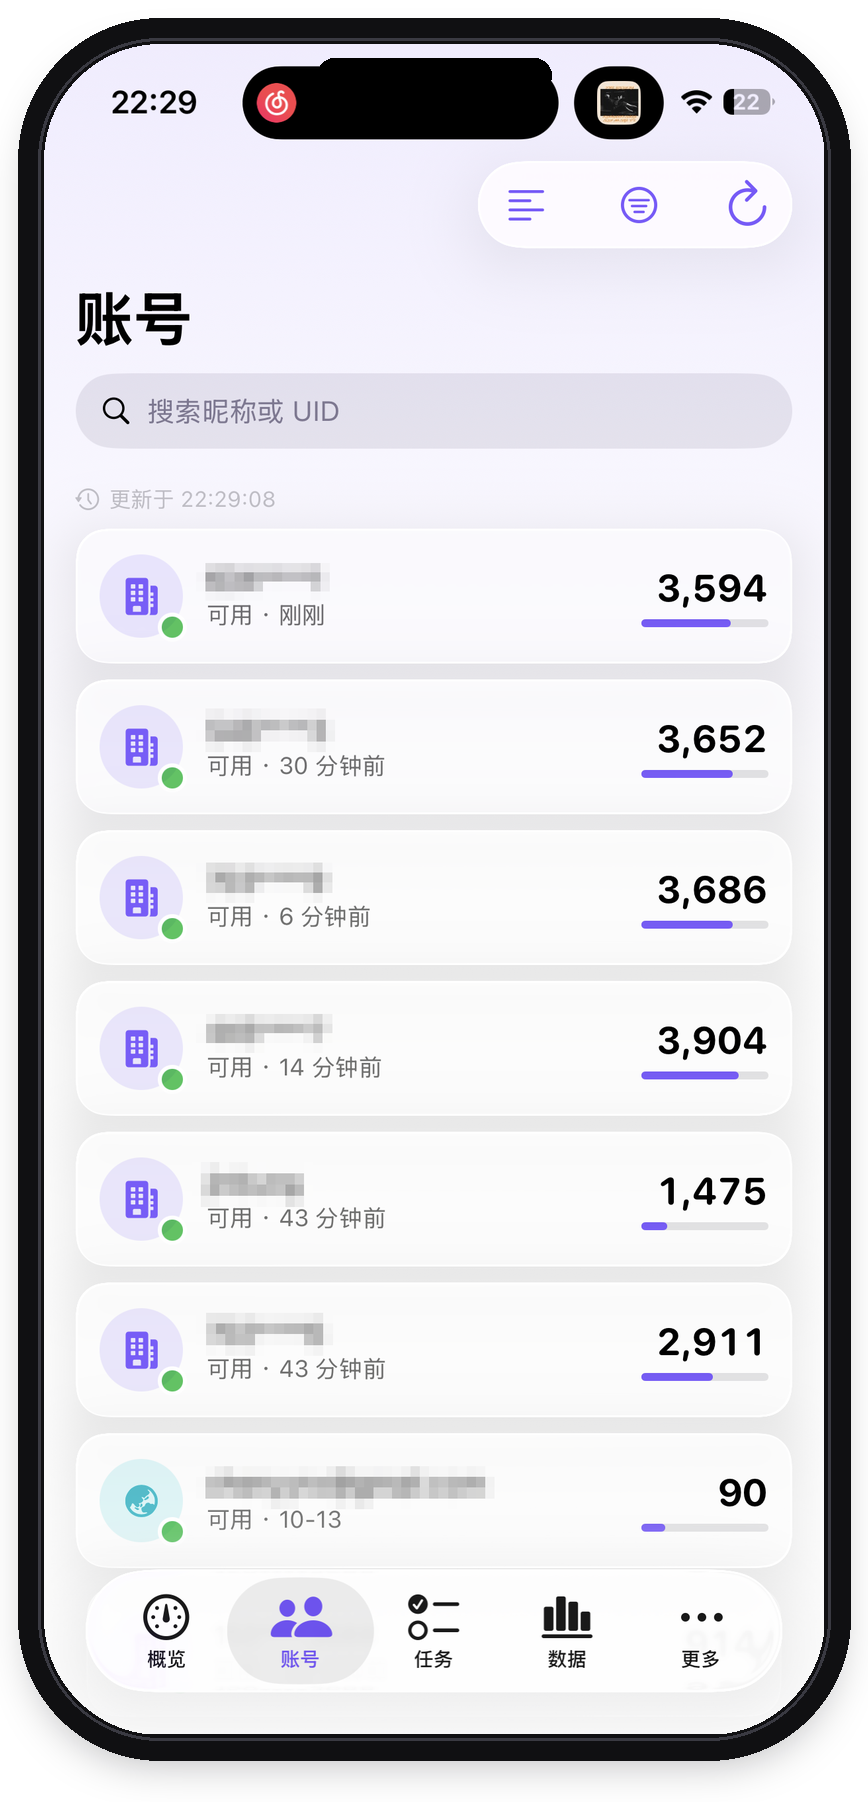
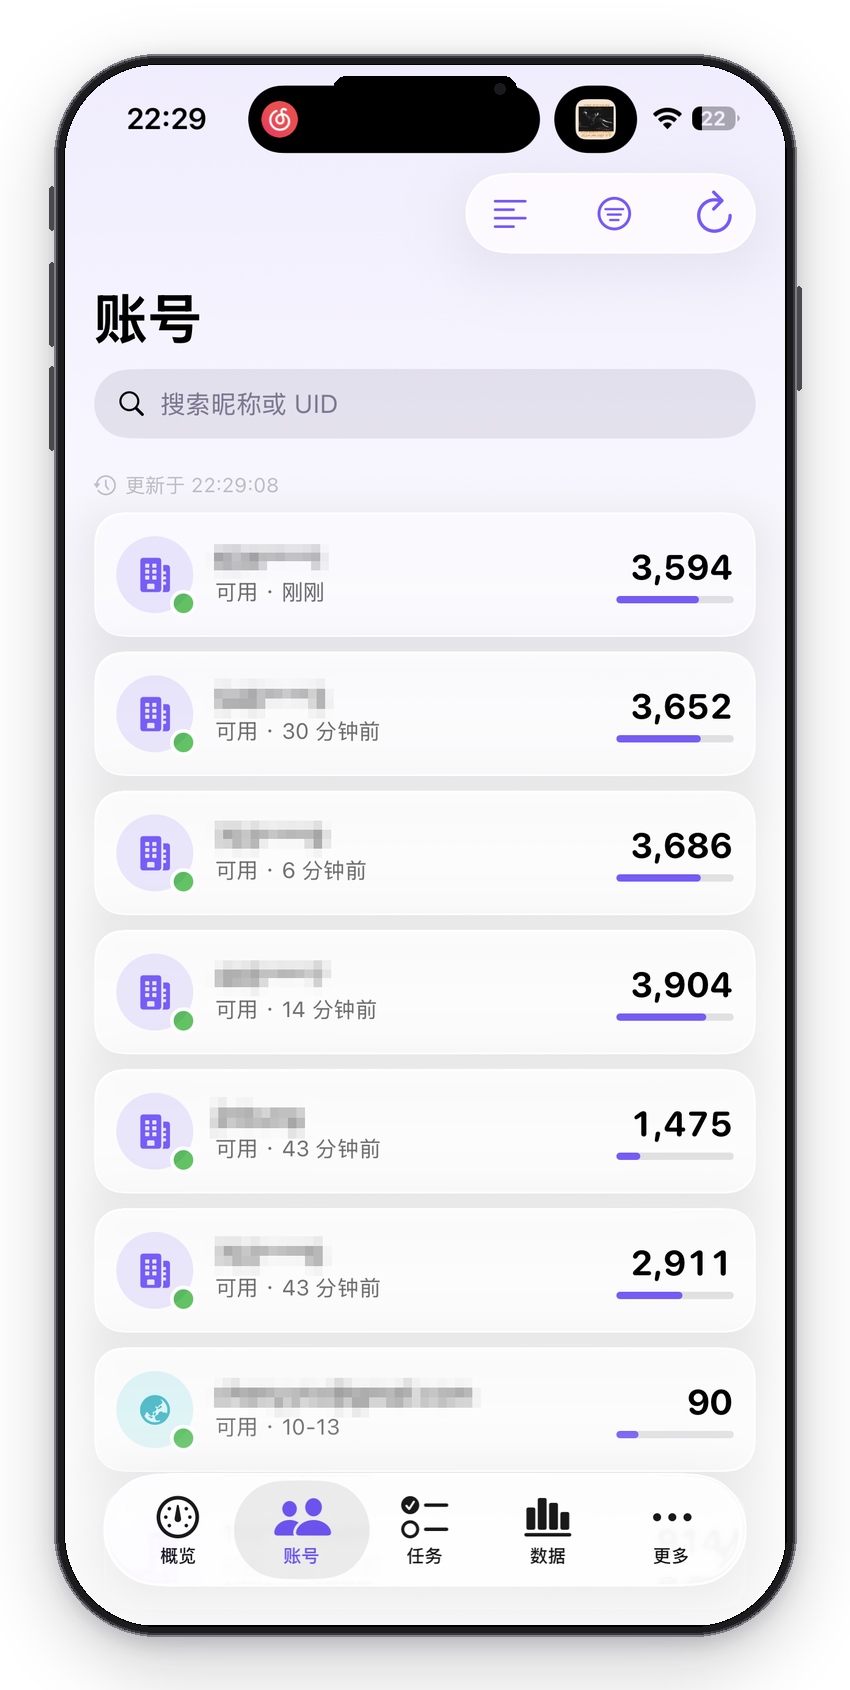
docs: 使用拼接展示图作为界面预览（账号信息已脱敏）

diff --git a/tools/make_screenshots.py b/tools/make_screenshots.py
@@ -69,45 +69,56 @@ def redact(img: Image.Image, blocks: list) -> Image.Image:
 
 
 def frame(img: Image.Image) -> Image.Image:
-    """套一层手机外框（黑边 + 灵动岛），带柔和投影，透明底。"""
-    target_w = 780
+    """套一层接近实机的 iPhone 外框：窄边、金属描边、侧键、灵动岛、双层投影。"""
+    target_w = 720
     ratio = target_w / img.width
     shot = img.resize((target_w, int(img.height * ratio)), Image.LANCZOS)
     w, h = shot.size
 
-    pad = BEZEL + 18
-    canvas = Image.new("RGBA", (w + pad * 2, h + pad * 2 + 24), (0, 0, 0, 0))
+    bezel = 11                 # 窄边框
+    screen_radius = 92
+    frame_radius = screen_radius + bezel
+    margin = 54
 
-    # 投影
-    shadow = Image.new("RGBA", canvas.size, (0, 0, 0, 0))
-    sd = ImageDraw.Draw(shadow)
-    sd.rounded_rectangle(
-        [pad - 6, pad + 16, pad + w + 6, pad + h + 22],
-        radius=RADIUS, fill=(20, 16, 40, 90),
-    )
-    shadow = shadow.filter(ImageFilter.GaussianBlur(22))
-    canvas = Image.alpha_composite(canvas, shadow)
+    canvas = Image.new("RGBA", (w + bezel * 2 + margin * 2, h + bezel * 2 + margin * 2), (0, 0, 0, 0))
+    ox, oy = margin, margin
+    fx0, fy0 = ox, oy
+    fx1, fy1 = ox + w + bezel * 2, oy + h + bezel * 2
+
+    # 远投影 + 近投影
+    for blur, alpha, dy in ((34, 55, 22), (10, 45, 6)):
+        layer = Image.new("RGBA", canvas.size, (0, 0, 0, 0))
+        ld = ImageDraw.Draw(layer)
+        ld.rounded_rectangle([fx0 + 2, fy0 + dy + 2, fx1 - 2, fy1 + dy], radius=frame_radius, fill=(18, 14, 40, alpha))
+        canvas = Image.alpha_composite(canvas, layer.filter(ImageFilter.GaussianBlur(blur)))
 
     d = ImageDraw.Draw(canvas)
-    d.rounded_rectangle(
-        [pad - BEZEL, pad - BEZEL, pad + w + BEZEL, pad + h + BEZEL],
-        radius=RADIUS + BEZEL, fill=(16, 16, 18, 255),
-    )
-    d.rounded_rectangle(
-        [pad - 6, pad - 6, pad + w + 6, pad + h + 6],
-        radius=RADIUS + 6, outline=(58, 58, 66, 255), width=3,
-    )
 
-    # 圆角裁切屏幕
+    # 侧键（细窄，压在机身下）
+    btn = (74, 74, 78, 255)
+    d.rounded_rectangle([fx0 - 5, fy0 + 132, fx0, fy0 + 176], radius=3, fill=btn)
+    d.rounded_rectangle([fx0 - 5, fy0 + 208, fx0, fy0 + 292], radius=3, fill=btn)
+    d.rounded_rectangle([fx0 - 5, fy0 + 312, fx0, fy0 + 396], radius=3, fill=btn)
+    d.rounded_rectangle([fx1, fy0 + 232, fx1 + 5, fy0 + 336], radius=3, fill=btn)
+
+    # 金属中框（外圈渐变感：两层描边）
+    d.rounded_rectangle([fx0, fy0, fx1, fy1], radius=frame_radius, fill=(28, 28, 30, 255))
+    d.rounded_rectangle([fx0, fy0, fx1, fy1], radius=frame_radius, outline=(126, 126, 134, 255), width=2)
+    d.rounded_rectangle([fx0 + 2, fy0 + 2, fx1 - 2, fy1 - 2], radius=frame_radius - 2, outline=(58, 58, 62, 255), width=2)
+    d.rounded_rectangle([fx0 + bezel - 1, fy0 + bezel - 1, fx1 - bezel + 1, fy1 - bezel + 1],
+                        radius=screen_radius + 1, fill=(0, 0, 0, 255))
+
+    # 屏幕
     mask = Image.new("L", shot.size, 0)
-    ImageDraw.Draw(mask).rounded_rectangle([0, 0, w, h], radius=RADIUS, fill=255)
-    canvas.paste(shot, (pad, pad), mask)
+    ImageDraw.Draw(mask).rounded_rectangle([0, 0, w, h], radius=screen_radius, fill=255)
+    canvas.paste(shot, (fx0 + bezel, fy0 + bezel), mask)
 
-    # 灵动岛
-    island_w, island_h = int(w * 0.30), 34
-    ix = pad + (w - island_w) // 2
-    d.rounded_rectangle([ix, pad + 14, ix + island_w, pad + 14 + island_h],
-                        radius=island_h // 2, fill=(0, 0, 0, 255))
+    # 灵动岛 + 摄像头
+    island_w, island_h = int(w * 0.255), 26
+    ix = fx0 + bezel + (w - island_w) // 2
+    iy = fy0 + bezel + 11
+    d.rounded_rectangle([ix, iy, ix + island_w, iy + island_h], radius=island_h // 2, fill=(0, 0, 0, 255))
+    d.ellipse([ix + island_w - 22, iy + 7, ix + island_w - 11, iy + 18], fill=(26, 26, 30, 255))
     return canvas
 
 

diff --git a/tools/scrub_hero.py b/tools/scrub_hero.py
@@ -1,0 +1,58 @@
+#!/usr/bin/env python3
+"""把拼接展示图里的敏感账号信息打码（账号昵称 / 邮箱 / 掩码手机号）。"""
+import json
+import re
+import subprocess
+import sys
+
+from PIL import Image, ImageDraw
+
+PATTERNS = [
+    re.compile(r"[A-Za-z0-9._%+-]+@[A-Za-z0-9.-]+\.[A-Za-z]{2,}"),
+    re.compile(r"\d{2,4}\*{2,}\d{0,4}"),
+    re.compile(r"jinbung\w*", re.I),
+    re.compile(r"chenyyn\w*|chenyunx\w*", re.I),
+    re.compile(r"@|gmail|qq\.com|163\.com", re.I),
+]
+
+
+def ocr(path):
+    out = subprocess.run(
+        ["apple-vision", "ocr", "--lang", "zh-Hans,en", "--level", "accurate", path],
+        capture_output=True, text=True, check=True).stdout
+    return json.loads(out)["data"]["blocks"]
+
+
+def redact(img, blocks):
+    im = img.convert("RGB").copy()
+    w, h = im.size
+    hits = 0
+    for b in blocks:
+        text = b.get("text", "")
+        if not any(p.search(text) for p in PATTERNS):
+            continue
+        x, y, bw, bh = b["bbox"]
+        box = [max(0, int(x * w) - 14), max(0, int((1 - y - bh) * h) - 10),
+               min(w, int((x + bw) * w) + 14), min(h, int((1 - y) * h) + 10)]
+        crop = im.crop(box)
+        bwid, bhei = crop.size
+        small = crop.resize((max(2, bwid // 14), max(2, bhei // 14)), Image.BILINEAR)
+        im.paste(small.resize((bwid, bhei), Image.NEAREST), box)
+        hits += 1
+        print(f"  打码: {text[:40]!r}")
+    return im, hits
+
+
+def main():
+    src = sys.argv[1] if len(sys.argv) > 1 else "/tmp/hero-src.jpg"
+    dst = sys.argv[2] if len(sys.argv) > 2 else "docs/screenshots/hero.png"
+    img = Image.open(src)
+    blocks = ocr(src)
+    print(f"OCR {len(blocks)} 块")
+    out, n = redact(img, blocks)
+    out.save(dst, "PNG", optimize=True)
+    print(f"完成 {dst}，打码 {n} 处，尺寸 {out.size}")
+
+
+if __name__ == "__main__":
+    main()

diff --git a/README.md b/README.md
@@ -13,14 +13,11 @@
 ## 界面
 
 <p align="center">
-  <img src="docs/screenshots/01-overview.png" width="24%" alt="概览" />
-  <img src="docs/screenshots/02-accounts.png" width="24%" alt="账号" />
-  <img src="docs/screenshots/03-tasks.png" width="24%" alt="任务" />
-  <img src="docs/screenshots/04-data.png" width="24%" alt="数据" />
+  <img src="docs/screenshots/hero.png" alt="界面预览：概览 / 账号 / 任务 / 数据 / 更多" />
 </p>
 
 <p align="center">
-  <sub>概览 · 账号池 · 任务队列 · 用量统计（截图内账号信息已脱敏）</sub>
+  <sub>概览 · 账号池 · 任务队列 · 用量统计 · 更多（截图内账号信息已脱敏）</sub>
 </p>
 
 ## 功能范围
